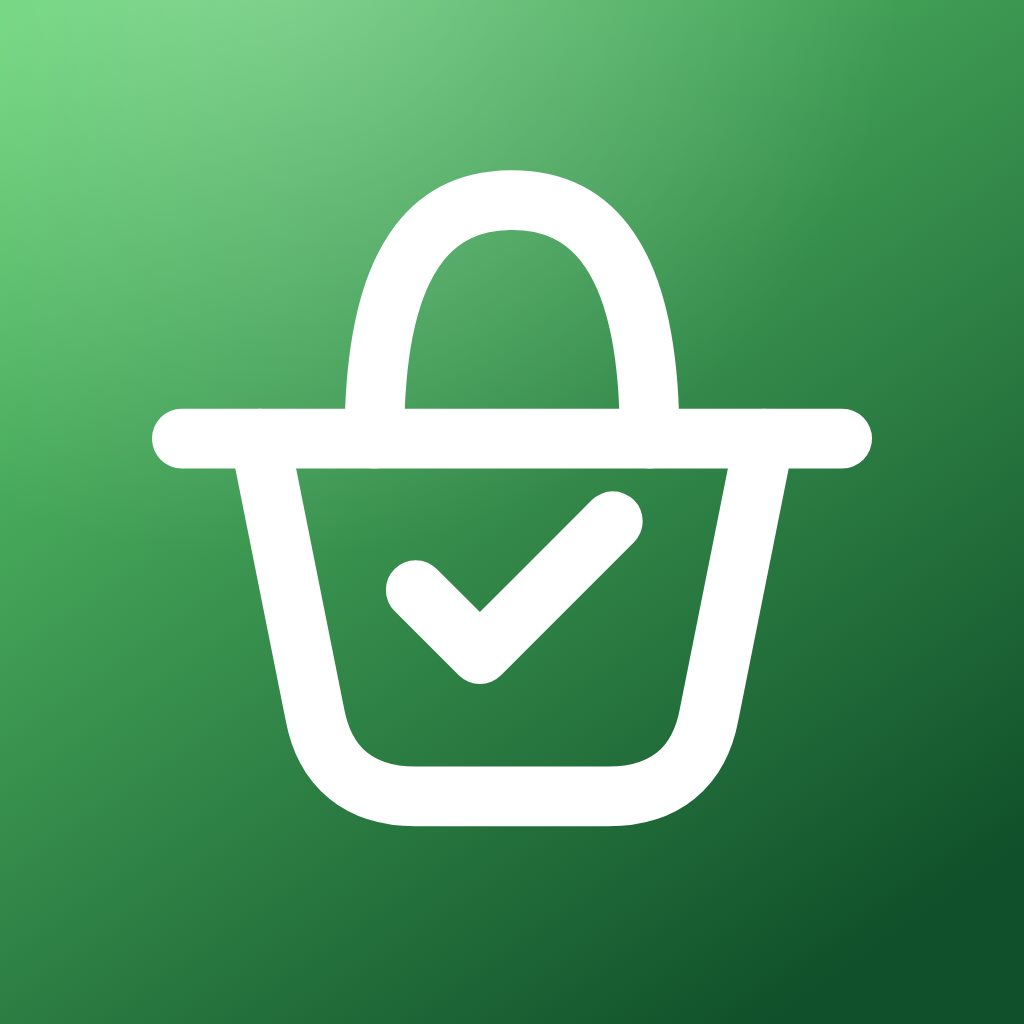
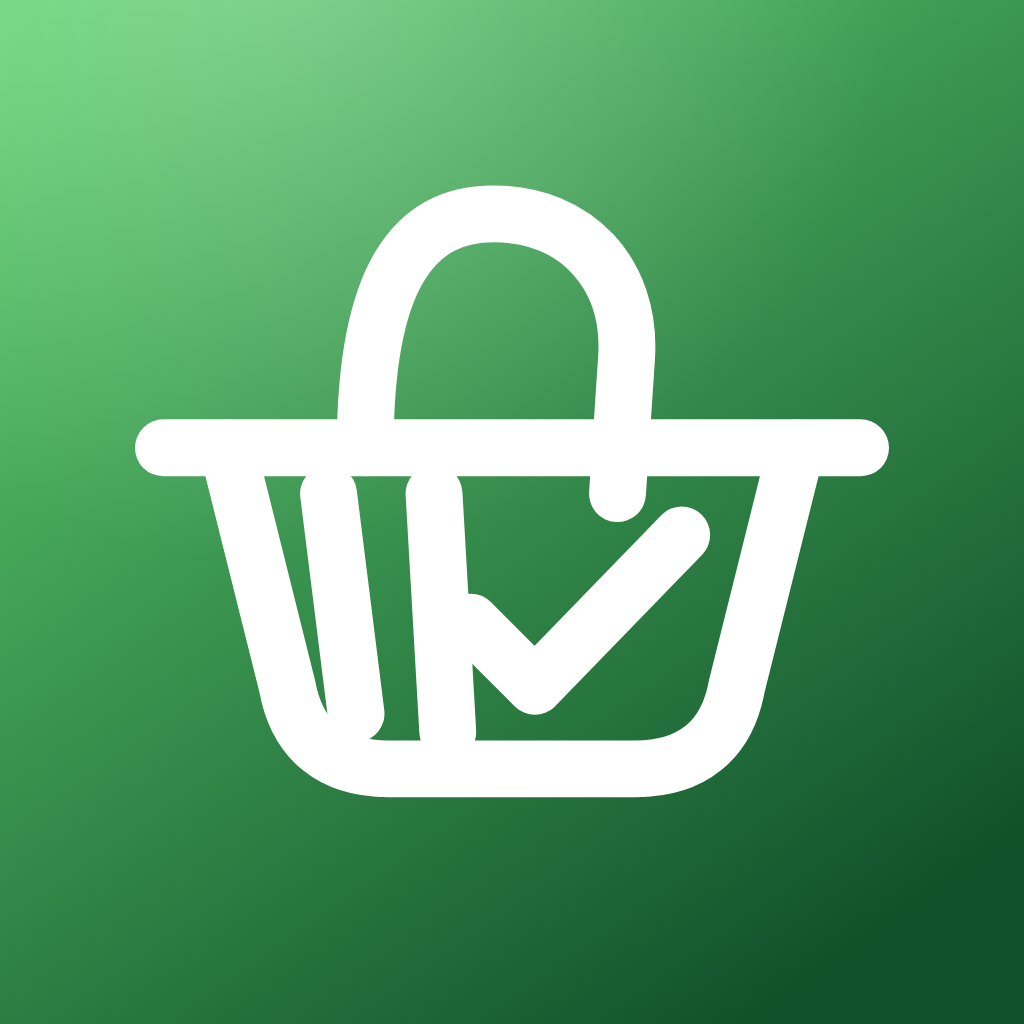
Redraw the mark against the reference, not from memory
You were right — the first pass was a different basket. I had drawn it
from a description of the shape rather than from the shape, and then
argued myself out of the two details that make it itself.

THE HANDLE IS NOT AN ARCH. It rises on the left, goes over, and comes
down THROUGH the rim to a rounded terminal below it. That single stroke
is the difference between this mark and a bucket with a bar across it,
and I had drawn a symmetric arch meeting the rim on both sides.

THE SLATS ARE NOT DECORATION. I removed them on the grounds that they
blur at 28dp. True, and beside the point: without them the left of the
basket is empty and the whole mark leans right. They are back, and the
places the mark is actually used — icon, adaptive foreground, splash,
boot screen — are all large enough to carry them.

The basket is also squatter and wider, and the check is bigger and sits
right of centre where the slats are not.

Method worth recording, because the first attempt did not use it: the
reference photograph and the drawn mark were rendered side by side at
matched scale and compared, three times. Describing a logo in prose and
then drawing from the prose loses exactly the details that make it a
logo rather than a picture of a basket.

check-brand now asserts the two things I talked myself out of: six named
strokes, and a handle whose terminal ends BELOW the rim's y. Both were
verified by re-breaking them.

One of those assertions crashed instead of failing when first tested — a
[…]

Changed region(s): [[0.125, 0.1562, 0.875, 0.8125], [0.4062, 0.1875, 0.4375, 0.2188]]

diff --git a/apps/mobile/src/components/korb-mark.tsx b/apps/mobile/src/components/korb-mark.tsx
@@ -14,50 +14,61 @@ import Svg, { G, Path } from 'react-native-svg';
  * only ever be white. This inherits a colour and stays crisp at any size.
  *
  * ---------------------------------------------------------------------------
- * Four strokes, and the count is the design
+ * The asymmetry is the mark
  * ---------------------------------------------------------------------------
  *
- * The reference art has ribs down the inside of the basket. They are the first
- * thing to turn to mud: at 28dp they cross the check and the mark reads as a
- * scribble. What survives shrinking is the silhouette — a handle, a rim, a
- * taper — and one gesture inside it. So the ribs are gone, deliberately, and
- * the check is what the extra ink is spent on: it is the app's one recurring
- * shape, on every ticked row and every imported line.
+ * The handle does not arch symmetrically and meet the rim on both sides. It
+ * rises on the left, goes over, and comes down THROUGH the rim to a rounded
+ * terminal below it. That single detail is what stops this reading as a bucket
+ * with a bar across it, and it is the thing a first attempt at this drops —
+ * mine did, along with the slats, and the result was recognisably a basket and
+ * recognisably not THIS basket.
+ *
+ * The two slats down the left are the other half of it. They are the most
+ * fragile part at small sizes and they are kept anyway, because without them
+ * the left of the basket is empty and the whole mark leans right.
  *
  * ---------------------------------------------------------------------------
- * These strings are the brand
+ * Where it is legible, and where it is not
  * ---------------------------------------------------------------------------
  *
- * The same `d` values are in assets/brand/*.svg, which is what the app icon,
- * the Android adaptive icon and the splash PNG are rasterised from. Two copies
- * of a logo drift, and a logo that drifts is one the icon and the app disagree
- * about — so check-brand asserts every path here appears in every one of those
- * files, and fails the build rather than letting them part company.
- */
+ * Drawn at 96 and rendered down: crisp at 128 and 56, muddy by 28. Every
+ * current use is large — the icon, the adaptive foreground, the splash and the
+ * boot screen — so it is drawn whole everywhere it appears today. `parts` is
+ * how a small use would drop the slats rather than shipping mud; nothing needs
+ * it yet, and inventing a second silhouette before something does is how a
+ * brand ends up with two marks.
+ *
 export const KORB_PATHS = {
-  /** Rises from the rim and returns to it, so the two read as one object. */
-  handle: 'M33 40 C33 20 39.5 14 48 14 C56.5 14 63 20 63 40',
-  rim: 'M12 40 H84',
-  /** Sides tapering into a base with real corner radius: a basket, not a bucket. */
-  body: 'M20.5 40 L26.5 70 C27.6 76 31.5 79 37.5 79 H58.5 C64.5 79 68.4 76 69.5 70 L75.5 40',
   /**
-   * Centred in the BODY's width rather than the viewBox's — the taper moves the
-   * middle down here, and a check centred on 48 sits visibly left of the space
-   * it is in.
+   * Up from the rim, over, and down THROUGH it to a rounded terminal. See
+   * above: this stroke is the difference between the mark and a bucket.
    */
-  check: 'M37.5 56.5 L44.5 63.5 L59 49',
+  handle: 'M32 41 C32 22 37.5 15.5 46 15.5 C55 15.5 61 22 60.5 31 L59.5 46',
+  rim: 'M10 41 H86',
+  /** Squat and wide with a narrow base — a basket seen from slightly above. */
+  body: 'M17 41 L23.5 67 C24.6 73 28.5 76 34.5 76 H61.5 C67.5 76 71.4 73 72.5 67 L79 41',
+  /** Weave down the left. Short of both ends, so they read as slats not walls. */
+  slatA: 'M28 46 L31 70',
+  slatB: 'M39.5 46 L41 72',
+  /**
+   * The app's one recurring gesture, sized to be the second thing seen. It
+   * sits right of centre, which is where the slats are not — the basket's
+   * middle is already spoken for.
+   */
+  check: 'M43.5 60 L50.5 67 L66.5 50.5',
 } as const;
 
 /** Stroke weight on the 96-unit grid. Scales with the mark. */
-export const KORB_STROKE = 6.5;
+export const KORB_STROKE = 6.2;
 
 export function KorbMark({
   size = 96,
   color = 'currentColor',
   /**
-   * Fraction of the mark to draw, 0..1, in stroke order: handle, rim, body,
-   * check. Left undefined it draws whole — the animated lockup is the only
-   * caller that wants anything else.
+   * Which strokes to draw. Left undefined it draws whole, which is what every
+   * caller wants today; see the note above on why a reduced variant is not
+   * invented before something needs one.
    */
   parts,
 }: {
